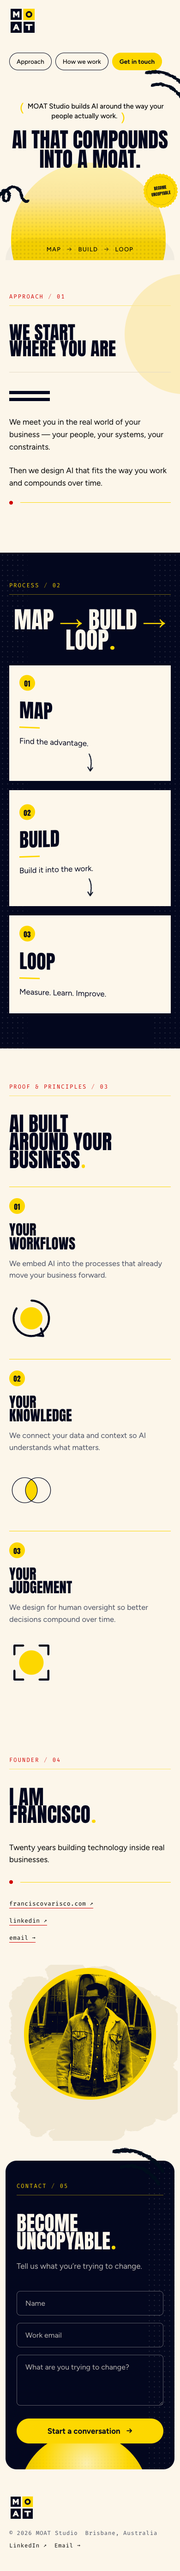
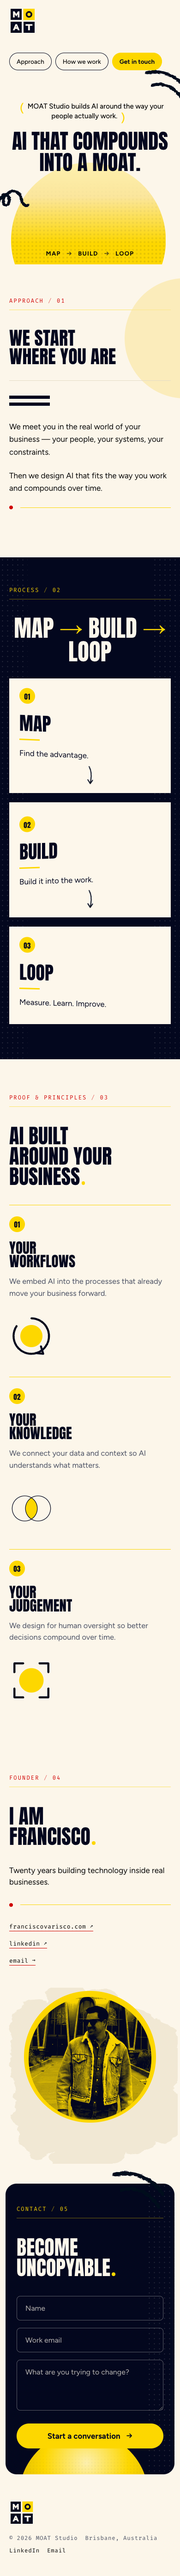
fix(PAR-186): review pass on the editorial-orb homepage
Ten changes from Francisco's review of the concept build:

 1. The "become uncopyable" seal leaves the hero. UncopyableBadge and its
    styling are deleted with it, and lint.mjs no longer checks it.
 2. + 8. Display headings get their leading opened up, everywhere:
    line-height goes from .86/.88 to 1 on both the hero statement and
    every section title, so the stacked lines read as separate lines.
 3. The grey pill behind MAP → BUILD → LOOP is removed. Its dotted
    leaders were solar, which was faint on the cream and invisible once
    the orb sat behind them, so they move to ink at 28%.
 4. The rail's stage names go bold.
 5. The Approach bracket centres against its row instead of hanging from
    the top of it.
 6. The arrows in the process heading ride the cap middle rather than the
    baseline — the glyph is not in Anton, so it falls back to a text font
    that sets it on the maths axis — and the heading loses its full stop.
 7. The process cards shrink: one line of copy was floating in 272px of
    card, now 176px, with the name at 52px and the stagger tightened.
 9. The contact panel drops "Tell us what you're trying to change."
10. The colophon links drop their ↗ / → glyphs. The founder chapter's
    links keep theirs — only the footer was called out.

Evidence in evidence/PAR-186 is regenerated: no horizontal overflow at
either width, all five chapters still resolve aria-labelledby to their
[…]

diff --git a/src/index.css b/src/index.css
@@ -61,8 +61,8 @@
   --moat-cream-22: rgba(253, 247, 235, .22);
   --moat-cream-16: rgba(253, 247, 235, .16);
   --moat-cream-05: rgba(253, 247, 235, .05);
+  --moat-navy-28: rgba(3, 7, 30, .28);
   --moat-navy-08: rgba(3, 7, 30, .08);
-  --moat-navy-045: rgba(3, 7, 30, .045);
   --moat-solar-10: rgba(253, 215, 0, .1);
 
   /* Type */
@@ -160,7 +160,7 @@ button:hover { opacity: .85 }
   font-weight: 400;
   text-transform: uppercase;
   letter-spacing: .002em;
-  line-height: .88;
+  line-height: 1;
   margin: 0;
   color: var(--moat-navy);
 }
@@ -179,7 +179,10 @@ button:hover { opacity: .85 }
   background: var(--moat-solar);
   vertical-align: baseline;
 }
-.title-arrow { color: var(--moat-solar) }
+/* The arrow glyph is not in the display face, so it falls back to a text
+   font that sets it on the maths axis — well below the middle of these
+   caps. Nudge it up onto the cap centre. */
+.title-arrow { color: var(--moat-solar); display: inline-block; vertical-align: .1em }
 /* A stage and the arrow it hands off to break as one word. */
 .title-pair { white-space: nowrap }
 
@@ -232,14 +235,7 @@ button:hover { opacity: .85 }
 .dot-red { width: 8px; height: 8px; border-radius: 50%; background: var(--moat-red); flex: none }
 .rule-solar { flex: 1; height: 1px; background: var(--moat-solar) }
 
-.brush-mark, .hero-orb, .badge-mark, .ink-arrow { display: block; pointer-events: none }
-.badge-text {
-  font-family: var(--moat-font-display);
-  font-size: 21px;
-  letter-spacing: .01em;
-  fill: var(--moat-navy);
-  text-transform: uppercase;
-}
+.brush-mark, .hero-orb, .ink-arrow { display: block; pointer-events: none }
 
 /* ════════════════════════════════════════════════════════════════════
    Hero (PAR-186)
@@ -322,7 +318,7 @@ button:hover { opacity: .85 }
   font-weight: 400;
   text-transform: uppercase;
   font-size: clamp(48px, 10.6vw, 150px);
-  line-height: .86;
+  line-height: 1;
   letter-spacing: -.004em;
   color: var(--moat-navy);
   margin: 0;
@@ -330,7 +326,6 @@ button:hover { opacity: .85 }
 /* The concept sets both lines to the same measure; the shorter second
    line gets there by being set larger, not by tracking it apart. */
 .hero-title .line:last-child { font-size: 1.2em }
-.hero-badge { position: absolute; right: 0; bottom: 3%; z-index: 2; width: min(16vw, 210px); height: auto; transform: rotate(-8deg) }
 
 /* The rail sits flush on the hero's bottom edge: a sunken pill naming
    the operating model, linking down to the chapter that expands it. */
@@ -341,14 +336,12 @@ button:hover { opacity: .85 }
   display: flex;
   align-items: center;
   gap: var(--moat-space-10);
-  background: var(--moat-navy-045);
-  border-radius: 52px 52px 0 0;
   padding: 26px 48px 30px;
 }
 .rail-leader {
   flex: 1;
   height: 1px;
-  background: repeating-linear-gradient(90deg, var(--moat-solar) 0 3px, transparent 3px 10px);
+  background: repeating-linear-gradient(90deg, var(--moat-navy-28) 0 3px, transparent 3px 10px);
 }
 .rail-stages { display: flex; align-items: center; gap: var(--moat-space-6) }
 .rail-stages:hover { opacity: 1 }
@@ -357,7 +350,7 @@ button:hover { opacity: .85 }
   align-items: center;
   gap: var(--moat-space-6);
   font-size: 19px;
-  font-weight: 500;
+  font-weight: 700;
   letter-spacing: .16em;
   text-transform: uppercase;
   color: var(--moat-ink);
@@ -402,7 +395,7 @@ button:hover { opacity: .85 }
   height: 232px;
   border: 15px solid var(--moat-navy);
   border-left: 0;
-  margin-top: var(--moat-space-2);
+  align-self: center;
 }
 .approach-copy p { font-size: 19px; line-height: 1.6; color: var(--moat-ink); margin: 0 0 var(--moat-space-6) }
 .approach-close { display: flex; align-items: center; gap: var(--moat-space-4); margin: var(--moat-space-10) 0 0 }
@@ -457,9 +450,9 @@ button:hover { opacity: .85 }
 /* Each card is pasted at its own angle; the first sits highest and on
    top, so the eye reads left to right down the stagger. */
 .process-card-1 { transform: skewY(-2.2deg); z-index: 3 }
-.process-card-2 { transform: skewY(1.9deg); margin-top: 34px; z-index: 2 }
-.process-card-3 { transform: skewY(-1.5deg); margin-top: 70px; z-index: 1 }
-.process-card-inner { position: relative; padding: 34px 32px 40px; min-height: 272px }
+.process-card-2 { transform: skewY(1.9deg); margin-top: 28px; z-index: 2 }
+.process-card-3 { transform: skewY(-1.5deg); margin-top: 56px; z-index: 1 }
+.process-card-inner { position: relative; padding: 30px 30px 34px; min-height: 176px }
 .process-card-1 .process-card-inner { transform: skewY(2.2deg) }
 .process-card-2 .process-card-inner { transform: skewY(-1.9deg) }
 .process-card-3 .process-card-inner { transform: skewY(1.5deg) }
@@ -467,7 +460,7 @@ button:hover { opacity: .85 }
   font-family: var(--moat-font-display);
   font-weight: 400;
   text-transform: uppercase;
-  font-size: 62px;
+  font-size: 52px;
   line-height: .9;
   letter-spacing: .002em;
   color: var(--moat-navy);
@@ -477,7 +470,7 @@ button:hover { opacity: .85 }
 .process-body { font-size: 17px; line-height: 1.5; color: var(--moat-navy); margin: var(--moat-space-4) 0 0 }
 /* The hand-off, drawn in ink. It lives inside the card it leaves, so
    the list still announces exactly three steps. */
-.process-link { position: absolute; right: 22px; top: 47%; width: 96px; height: auto }
+.process-link { position: absolute; right: 20px; top: 44%; width: 82px; height: auto }
 
 /* ════════════════════════════════════════════════════════════════════
    Chapter 03 — Proof & principles (PAR-186)
@@ -618,7 +611,6 @@ button:hover { opacity: .85 }
 .contact-copy .section-eyebrow { color: var(--moat-solar); margin-bottom: var(--moat-space-10) }
 .contact-copy .section-eyebrow-rule { background: var(--moat-solar); opacity: .45 }
 .contact-title { color: var(--moat-cream); font-size: clamp(44px, 6vw, 90px) }
-.contact-copy p { font-size: 19px; line-height: 1.5; color: var(--moat-cream-72); max-width: 340px; margin: var(--moat-space-6) 0 0 }
 
 .contact-form { display: flex; flex-direction: column; gap: var(--moat-space-4); position: relative; z-index: 1 }
 .contact-field { display: flex; flex-direction: column }
@@ -707,14 +699,13 @@ button:hover { opacity: .85 }
   .hero-stage { padding: 68px var(--moat-gutter) 96px }
   .hero-kicker { font-size: 15px; margin-bottom: var(--moat-space-5) }
   .hero-paren { font-size: 1.7em; margin: 0 .3em }
-  .hero-title { font-size: clamp(34px, 11.6vw, 54px); line-height: .92 }
+  .hero-title { font-size: clamp(34px, 11.6vw, 54px); line-height: 1.02 }
   /* At this measure the second line already fills the width — setting it
      larger, as the desktop composition does, would push it off-screen. */
   .hero-title .line:last-child { font-size: 1em }
   .hero-orb-rise { width: min(86vw, 360px); top: 200px }
   .hero-brush-left { width: 96px; bottom: 2% }
   .hero-brush-right { width: 104px; top: -2% }
-  .hero-badge { width: 84px; height: 84px; right: 0; bottom: 6px }
   .process-rail { margin: 54px var(--moat-space-3) 0; padding: 16px var(--moat-space-5); gap: var(--moat-space-4) }
   .rail-leader { display: none }
   .rail-stages { width: 100%; justify-content: center; gap: var(--moat-space-3) }
@@ -738,7 +729,7 @@ button:hover { opacity: .85 }
   .process-card, .process-card-inner { transform: none }
   .process-card-2, .process-card-3 { margin: 0 }
   .process-card-inner { padding: 26px 22px 30px; min-height: 0 }
-  .process-name { font-size: 42px }
+  .process-name { font-size: 40px }
   /* Same ink-arrow geometry, turned 90° into a vertical connector. */
   .process-link { position: static; display: block; margin: var(--moat-space-5) auto 0; width: 44px; transform: rotate(90deg) }
 
@@ -759,7 +750,6 @@ button:hover { opacity: .85 }
   .contact-panel { grid-template-columns: 1fr; padding: 48px var(--moat-space-6) 56px; border-radius: var(--moat-radius-md); gap: var(--moat-space-10) }
   .contact-panel::after { width: 60px }
   .contact-orb { width: 72vw; left: 8%; bottom: -30% }
-  .contact-copy p { font-size: 17px; max-width: none }
   .contact-form button { width: 100%; justify-content: center }
 
   #footer { gap: var(--moat-space-4); row-gap: var(--moat-space-3) }

diff --git a/src/components/Hero.jsx b/src/components/Hero.jsx
@@ -2,22 +2,20 @@ import BrushMark from './BrushMark.jsx'
 import HeroOrb from './HeroOrb.jsx'
 import MoatLogo from './MoatLogo.jsx'
 import ProcessRail from './ProcessRail.jsx'
-import UncopyableBadge from './UncopyableBadge.jsx'
 
 /**
  * v3 editorial hero (PAR-186): the poster. The core statement is set as
  * display caps across two semantic lines, centred on the warm paper,
  * with the solar orb cresting from behind the second line and dry-brush
- * ink marks at each shoulder. The rosette repeats the promise; the rail
- * across the foot names the operating model and links into the process
- * chapter.
+ * ink marks at each shoulder. The rail across the foot names the
+ * operating model and links into the process chapter.
  *
  * The header keeps the logo home link plus Approach / How we work / Get
  * in touch, now as pills — outlined for the two navigational links,
  * solid solar for the one action. On small screens it becomes an
  * intentional two-row composition instead of clipped desktop pills.
  *
- * Every decorative layer (orb, brush marks, rosette) is pure SVG and
+ * Every decorative layer (orb, brush marks) is pure SVG and
  * aria-hidden, and sits behind the type with pointer-events off — the
  * headline stays real, selectable text at every width.
  */
@@ -54,7 +52,6 @@ export default function Hero() {
             <span className="line">AI that compounds</span>{' '}
             <span className="line">into a moat.</span>
           </h1>
-          <UncopyableBadge size={150} className="hero-badge" />
         </div>
 
         <ProcessRail />

diff --git a/src/components/Footer.jsx b/src/components/Footer.jsx
@@ -23,10 +23,10 @@ export default function Footer() {
       <span className="footer-item">Brisbane, Australia</span>
       <span className="footer-tick" aria-hidden="true" />
       <a href="https://linkedin.com/in/xicovarisco" target="_blank" rel="noopener noreferrer" className="footer-item footer-link">
-        LinkedIn<span className="link-glyph" aria-hidden="true">&#8599;</span>
+        LinkedIn
       </a>
       <a href="mailto:francisco@moatstudio.ai" className="footer-item footer-link">
-        Email<span className="link-glyph" aria-hidden="true">&#8594;</span>
+        Email
       </a>
     </footer>
   )

diff --git a/src/components/Programs.jsx b/src/components/Programs.jsx
@@ -37,9 +37,7 @@ export default function Programs() {
           <span className="title-pair">
             Build <span className="title-arrow" aria-hidden="true">&#8594;</span>
           </span>{' '}
-          <span className="title-pair">
-            Loop<span className="title-dot" aria-hidden="true" />
-          </span>
+          <span className="title-pair">Loop</span>
         </h2>
         <ol className="process-stage" aria-label="Our process: Map, Build, Loop">
           {PROGRAMS.map((p, i) => (

diff --git a/src/components/Contact.jsx b/src/components/Contact.jsx
@@ -67,7 +67,6 @@ export default function Contact() {
               uncopyable<span className="title-dot" aria-hidden="true" />
             </span>
           </h2>
-          <p>Tell us what you&rsquo;re trying to change.</p>
         </div>
         <form className="contact-form" onSubmit={handleSubmit}>
           <div className="contact-field">

diff --git a/README.md b/README.md
@@ -55,8 +55,7 @@ image assets beyond the founder photograph, and no icon library.
 Reusable primitives in `src/components/`: `SectionEyebrow` (`LABEL / 0N`
 over a hairline), `HeroOrb` (the solar body, `rise` and `sphere`),
 `BrushMark` (dry-brush ink, roughened by an SVG turbulence filter),
-`UncopyableBadge` (the scalloped seal), `InkArrow`, `NumberBadge` and
-`ProcessRail`.
+`InkArrow`, `NumberBadge` and `ProcessRail`.
 
 ## Evidence
 
